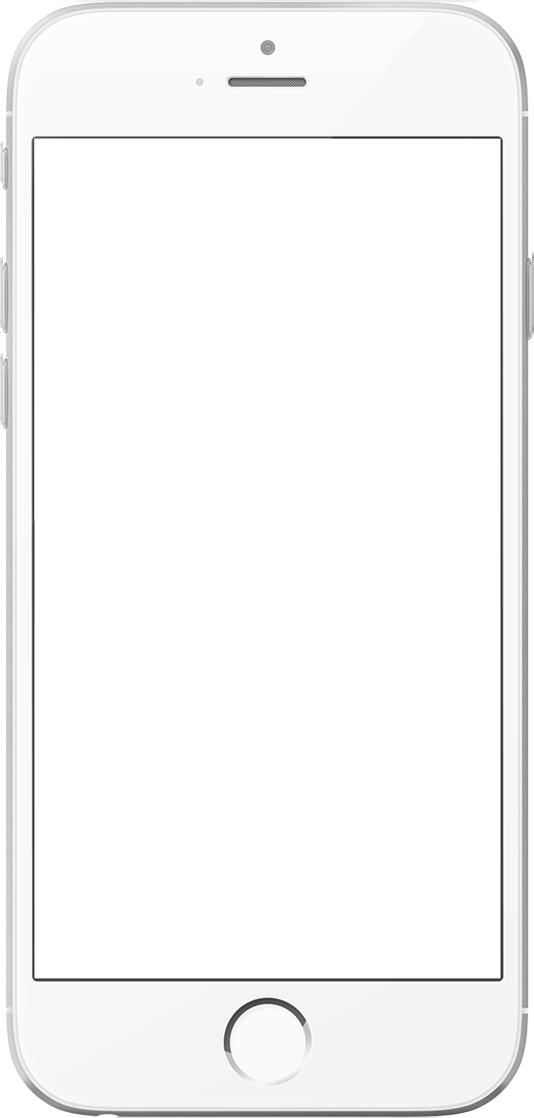
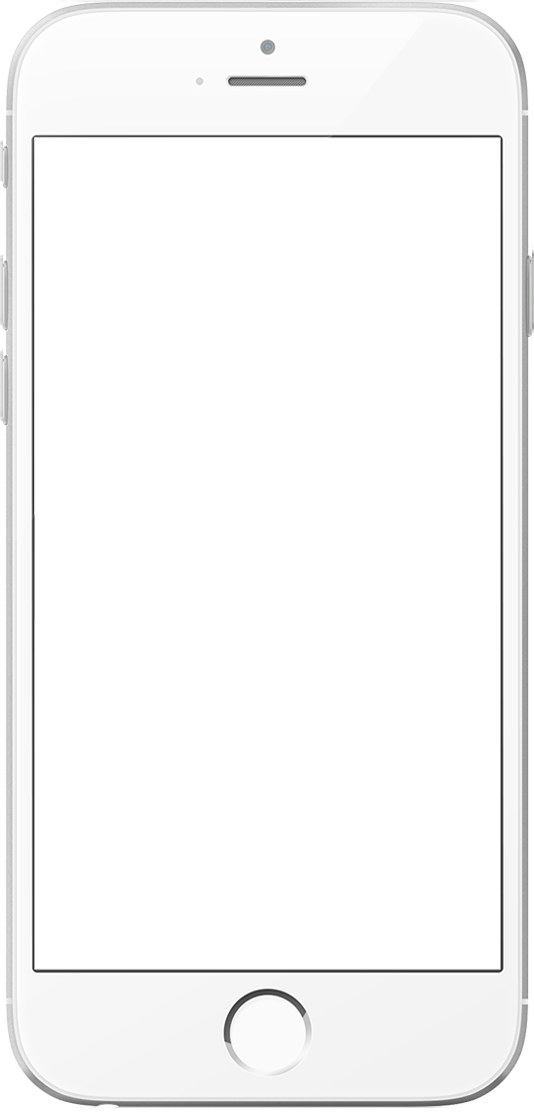
Finished slide in version responsive

diff --git a/stylesheets/landing.css b/stylesheets/landing.css
@@ -2608,15 +2608,18 @@ a {
   padding-bottom: 180px !important;
 }
 .slide-app .grid__item{
-  left:1%;
+  left:0;
   top:50px;
 }
 
-/*@media only screen and (max-width: 1375px){
-  .bx-viewport{
-    overflow-x: visible !important;
+@media only screen and (max-width: 1370px){
+  .slide__width{
+    width: 1372px;
+    margin: 0 auto;
+    left: calc(50% - 674px) !important;
   }
-}*/
+}
+
 @media only screen and (max-width: 960px){
  .box--pink .grid__item{
    left: 2%;
@@ -2716,6 +2719,11 @@ a {
   footer .float--right{
     width: 100%;
   }
+}
+
+.bx-viewport{
+  top: -1px;
+  margin: 0 auto;
 }
 
 /*@media only screen and (max-width: 503px){

diff --git a/index.html b/index.html
@@ -107,7 +107,7 @@
                 <br>
                 salon services
               </p>
-            </div><div class='grid__item one-whole relative'>
+            </div><div class='grid__item one-whole relative slide__width'>
               <ul class='bxslider'>
                 <li>
                   <img src='images/screen1.png'>
